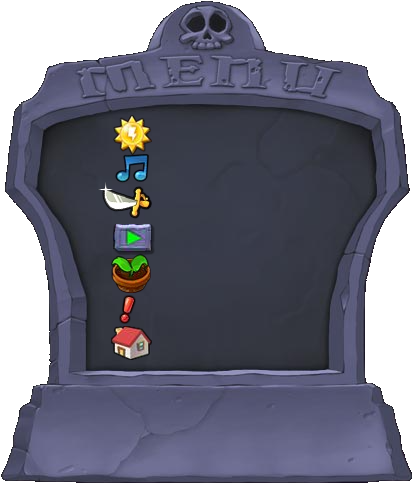
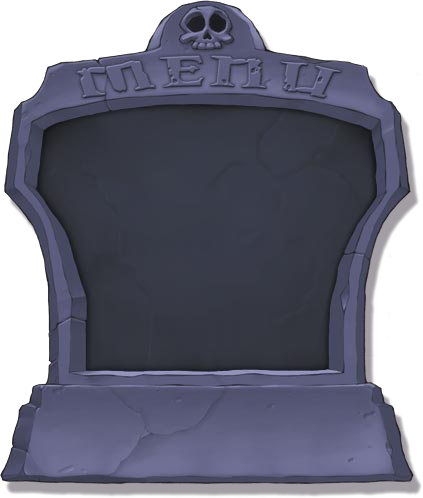
way better pause menu

diff --git a/game/Custom.css b/game/Custom.css
@@ -88,6 +88,9 @@
 	display: none !important;
 }
 .menu,
+.BigLevel,
+#lAutoSun,
+#lSilence,
 .OptionsMenuButtonSpan,
 #dHandBookPlantName,
 #btnViewPlant,
@@ -828,4 +831,35 @@ input[type="checkbox"]:checked {
 	background: url("images/interface/options_checkbox1.png") center center
 		no-repeat;
 	background-size: contain;
+}
+#lAutoSun,
+#lSilence {
+	color: #6b6d91 !important;
+	font-size: x-large !important;
+	text-shadow: 0px 0px 3px #000000, 0px 0px 3px #000000, 0px 0px 3px #000000, 0px 0px 3px #000000, 0px 0px 3px #000000, 0px 0px 3px #000000, 0px 0px 3px #000000, 0px 0px 3px #000000
+}
+.BigLevel {
+	color: #00c400 !important;
+	text-shadow:
+	1px 1px 0px rgb(92 97 111),
+	-1px -1.5px 0px rgba(0, 0, 0, 0.7) !important;
+	font-size: x-large !important;
+	margin-left: 27.6%;
+	background: url(images/interface/Button_long.png) no-repeat;
+	background-size: 100% 100%;
+	line-height: 1.41;
+}
+.BigLevel:hover {
+	color: #01e901 !important;
+	background: url(images/interface/Button_long.png) no-repeat;
+	background-size: 100% 100%;
+	line-height: 1.41;
+}
+.BigLevel:active {
+	background: url(images/interface/Button_long_down.png) no-repeat;
+	background-size: 100% 100%;
+	line-height: 1.49;
+}
+#dOptionsMenu .OMd0 {
+	margin-left: -45px;
 }

diff --git a/game/UI.css b/game/UI.css
@@ -580,11 +580,8 @@ td.HandBookZombie {
 }
 
 .BigLevel {
-	float: left;
-	color: #fc6;
-	font-size: 12px;
-	width: 100%;
-	height: 35px;
+	width: 45%;
+	height: 37px;
 }
 
 .OptionsMenuButton,
@@ -597,7 +594,7 @@ td.HandBookZombie {
 	cursor: url(images/interface/Pointer.cur), pointer;
 	width: 360px;
 	height: 100px;
-	margin-left: 26px;
+	margin-left: 29px;
 	display: inline;
 	color: #0f0;
 }
@@ -970,9 +967,8 @@ td.HandBookZombie {
 	cursor: url(images/interface/Pointer.cur), pointer;
 	width: 113;
 	height: 41;
-	background: #404364;
+	background: #5a5d78;
 	color: #00f500;
-	font-weight: bold;
 	font-size: 14pt;
 	font-family: Tahoma;
 	margin-top: 25px;

diff --git a/game/js/Cfunction.js b/game/js/Cfunction.js
@@ -3271,7 +3271,7 @@ var lastB;
 		SetNone($("dRiddleSmallContainer"));
 	}),
 	(ShowOptions = function () {
-		(document.getElementById("sOptionsMenu").textContent = "Ok"),
+		(document.getElementById("sOptionsMenu").textContent = "OK"),
 			PlayAudio(oS.Lvl ? "gravebutton" : "tap");
 		SetBlock($("dOptionsMenuback"), $("dOptionsMenu"));
 	}),

diff --git a/game/iframe.html b/game/iframe.html
@@ -526,7 +526,7 @@
 						</div>
 						<div
 							class="OptionsMenuButton"
-							style="margin-top: 20px"
+							style="margin-top: 10px"
 							onmousedown="OptionsMenuDown(this,$('sOptionsMenu'))"
 							onmouseup="OptionsMenuUP(this,$('sOptionsMenu'));HiddenOptions();CheckAutoSun($('cAutoSun'));CheckSilence($('cSilence'))"
 						>
